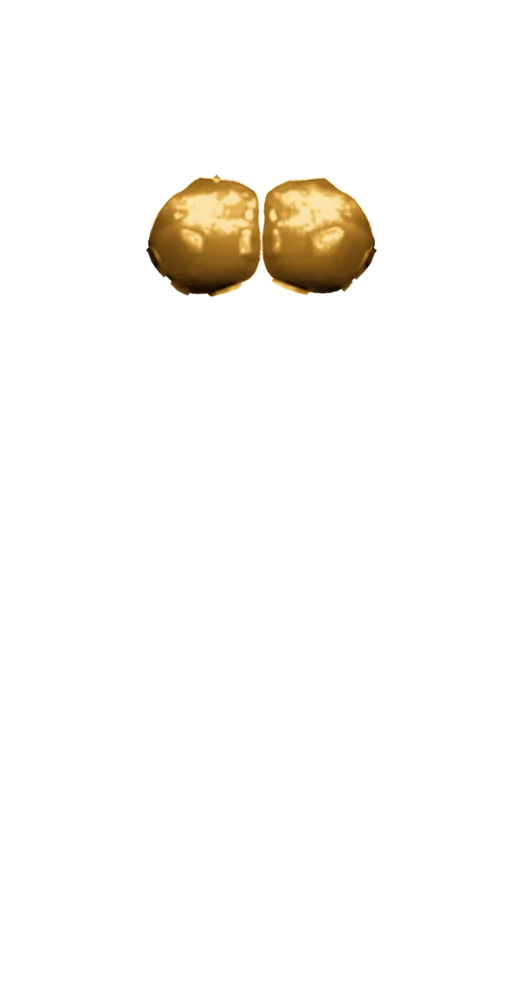
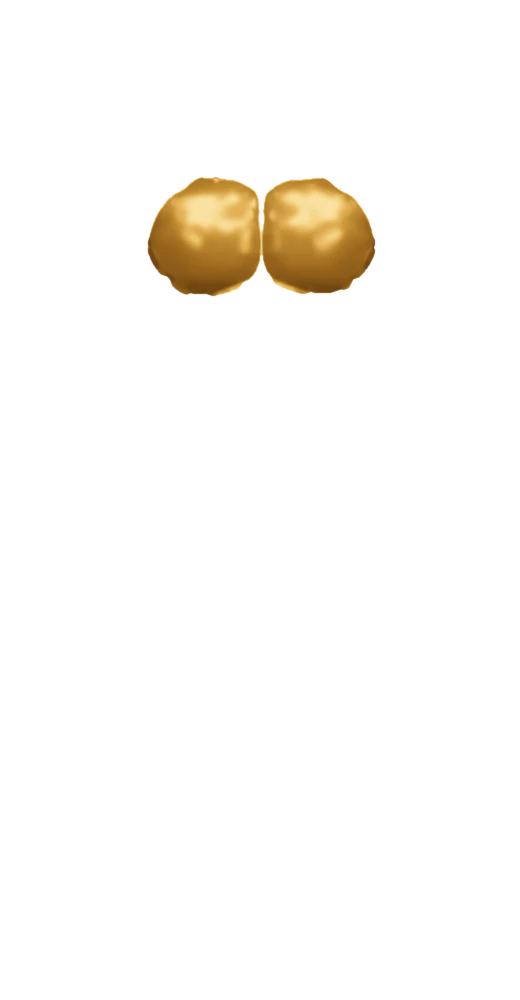
v23: Muskel-Overlays sauber neu gebaut
Streuflecken entfernt, Kanten geglättet, Gold an der Körpersilhouette
abgeschnitten, Lücke am Trizeps geschlossen, Gold aus der Figur-Helligkeit
ohne braune Ränder. Grundfigur retuschiert (Nacken-Splitter, fleckige
Glanzlichter an Brust und Gesäss, Zacken im Schritt). Build-Skript in tools/.

Claude-Session: https://claude.ai/code/session_0192CNVn12CV4HMorFgVc5mx

Changed region(s): [[0.2769, 0.186, 0.7385, 0.31]]

diff --git a/sw.js b/sw.js
@@ -1,5 +1,5 @@
 // Offline-Cache. Bei Änderungen an den Dateien die Versionsnummer erhöhen.
-const CACHE = 'gym-buddy-v22';
+const CACHE = 'gym-buddy-v23';
 const FILES = [
   './', 'index.html', 'styles.css', 'data.js', 'app.js', 'manifest.webmanifest',
   'icon.svg', 'apple-touch-icon.png', 'icon-192.png', 'icon-512.png', 'body-front.jpg', 'body-back.jpg',

diff --git a/tools/build_overlays.py b/tools/build_overlays.py
@@ -1,0 +1,174 @@
+"""Baut die goldenen Muskel-Overlays (m-<seite>-<gruppe>.webp) sauber neu.
+
+Schritt 1 (--masks): aus den bisherigen Overlays saubere Binärmasken machen
+  (Streuflecken weg, Löcher zu, Kanten glätten) -> tools/masks/*.png
+Schritt 2 (Standard): aus tools/masks + body-*.jpg die Overlays rendern.
+  Gold kommt aus der Helligkeit der weissen Figur, damit Licht und Schatten
+  exakt passen. Alpha wird an der Körpersilhouette abgeschnitten.
+Schritt 0 (--base): Figur body-*.jpg aus tools/src retuschieren
+  (Splitter am Nacken, fleckige Glanzlichter an Brust/Gesaess, Zacken im Schritt).
+Aufruf aus dem Repo-Ordner: python3 tools/build_overlays.py [--base] [--masks]
+"""
+import sys, glob, os
+import numpy as np
+import cv2
+from PIL import Image
+
+ROOT = os.path.dirname(os.path.dirname(os.path.abspath(__file__)))
+MASKS = os.path.join(ROOT, 'tools', 'masks')
+# Anzahl erwarteter Teile je Gruppe (links/rechts)
+PARTS = {'front-waden': 4}
+
+
+def lum(side):
+    return np.array(Image.open(os.path.join(ROOT, f'body-{side}.jpg')).convert('L')).astype(np.float32)
+
+
+def silhouette(side):
+    b = lum(side)
+    hard = (b > 45).astype(np.uint8)
+    hard = cv2.erode(hard, np.ones((3, 3), np.uint8))  # 1 px innen bleiben
+    soft = np.clip((b - 40) / 60, 0, 1)
+    return hard, soft
+
+
+def disk(r):
+    return cv2.getStructuringElement(cv2.MORPH_ELLIPSE, (2 * r + 1, 2 * r + 1))
+
+
+def clean_mask(m, keep):
+    n, lab, st, _ = cv2.connectedComponentsWithStats(m, 8)
+    order = sorted(range(1, n), key=lambda i: -st[i, cv2.CC_STAT_AREA])
+    out = np.zeros_like(m)
+    for i in order[:keep]:
+        if st[i, cv2.CC_STAT_AREA] > 800:
+            part = (lab == i).astype(np.uint8)
+            # Loecher fuellen
+            cnts, _ = cv2.findContours(part, cv2.RETR_EXTERNAL, cv2.CHAIN_APPROX_NONE)
+            cv2.drawContours(part, cnts, -1, 1, -1)
+            # Zacken und Nasen weg, dann Kerben zu
+            part = cv2.morphologyEx(part, cv2.MORPH_OPEN, disk(4))
+            part = cv2.morphologyEx(part, cv2.MORPH_CLOSE, disk(4))
+            out |= part
+    return out
+
+
+def make_masks():
+    os.makedirs(MASKS, exist_ok=True)
+    out = {}
+    for f in sorted(glob.glob(os.path.join(ROOT, 'm-*.webp'))):
+        key = os.path.basename(f)[2:-5]
+        side = key.split('-')[0]
+        a = np.array(Image.open(f))[:, :, 3]
+        m = (a > 127).astype(np.uint8)
+        m = clean_mask(m, PARTS.get(key, 2))
+        m &= silhouette(side)[0]
+        out.setdefault(side, {})[key] = m
+    for side, masks in out.items():
+        fill_holes_between(masks, side)
+        for key, m in masks.items():
+            Image.fromarray(m * 255).save(os.path.join(MASKS, key + '.png'))
+            print('Maske', key, int(m.sum()))
+
+
+# Goldverlauf nach Helligkeit der Figur (Schatten angehoben, damit keine braunen Raender)
+STOPS = [(0.00, (112, 70, 16)), (0.25, (150, 100, 28)), (0.50, (193, 139, 50)),
+         (0.72, (228, 180, 88)), (0.88, (247, 218, 146)), (1.00, (255, 244, 214))]
+
+
+def gold(b):
+    t = np.clip((b - 125) / 130, 0, 1) ** 1.35
+    out = np.zeros(b.shape + (3,), np.float32)
+    xs = [s[0] for s in STOPS]
+    for c in range(3):
+        out[..., c] = np.interp(t, xs, [s[1][c] for s in STOPS])
+    return out
+
+
+def smooth_region(img, mask, erode=6):
+    """Fleckige Glanzlichter in einer Muskelflaeche weich machen."""
+    inner = cv2.erode(mask, disk(erode)).astype(np.float32)
+    w = cv2.GaussianBlur(inner, (0, 0), 3)[..., None]
+    sm = cv2.medianBlur(img, 9)
+    sm = cv2.GaussianBlur(sm, (0, 0), 2.2)
+    return (img * (1 - w) + sm * w).round().astype(np.uint8)
+
+
+def fill_holes_between(masks, side):
+    """Weisse Inseln, die rundum von Gold umschlossen sind, der Nachbargruppe geben."""
+    union = np.zeros_like(next(iter(masks.values())))
+    for m in masks.values():
+        union |= m
+    sil = silhouette(side)[0]
+    holes = (sil & (1 - union)).astype(np.uint8)
+    n, lab, st, _ = cv2.connectedComponentsWithStats(holes, 4)
+    for i in range(1, n):
+        h = (lab == i).astype(np.uint8)
+        area = st[i, cv2.CC_STAT_AREA]
+        if area < 150 or area > 4000:
+            continue
+        ring = cv2.dilate(h, disk(2)) & (1 - h)
+        if (ring & (1 - union)).sum() > 0.2 * ring.sum():
+            continue  # nicht umschlossen (offene Naht)
+        if cv2.distanceTransform(h, cv2.DIST_L2, 3).max() < 3:
+            continue  # duenne Naht bleibt weiss
+        best = max(masks, key=lambda k: (ring & masks[k]).sum())
+        masks[best] |= h
+        print('Luecke', area, 'px ->', best)
+
+
+def fix_base():
+    for side in ('front', 'back'):
+        img = cv2.imread(os.path.join(ROOT, 'tools', 'src', f'body-{side}.jpg'))
+        g = cv2.cvtColor(img, cv2.COLOR_BGR2GRAY)
+        for f in glob.glob(os.path.join(MASKS, f'{side}-*.png')):
+            key = os.path.basename(f)[:-4]
+            if key in ('front-brust', 'back-gesaess'):
+                m = (cv2.imread(f, 0) > 127).astype(np.uint8)
+                img = smooth_region(img, m)
+        bad = np.zeros(g.shape, np.uint8)
+        core = np.zeros(g.shape, np.uint8)
+        if side == 'back':
+            # grauer Splitter am Nacken
+            box = np.zeros_like(bad); box[140:168, 234:258] = 1
+            bad |= ((g < 215) & (box > 0)).astype(np.uint8)
+            # Zacken am Schritt: dunkle Spitzen, die nicht zur Beinluecke gehoeren
+            dark = (g < 90).astype(np.uint8)
+            roi = np.zeros_like(bad); roi[525:580, 205:320] = 1
+            core = cv2.morphologyEx(dark, cv2.MORPH_OPEN, disk(3))
+            spikes = dark & (1 - core) & roi
+            # feine dunkle Kratzer neben der Gesaessfalte
+            med = cv2.medianBlur(g, 9).astype(int)
+            scratch = ((med - g.astype(int)) > 22) & (g > 90).astype(np.uint8) & roi
+            bad |= spikes | scratch
+        bad = cv2.dilate(bad, disk(1))
+        if bad.any():
+            img = cv2.inpaint(img, bad, 4, cv2.INPAINT_TELEA)
+            # Retuschierte Stellen weich in die Umgebung blenden
+            w = cv2.GaussianBlur(cv2.dilate(bad, disk(4)).astype(np.float32), (0, 0), 2.5)
+            w = (w * (1 - cv2.dilate(core, disk(2)))).astype(np.float32)[..., None]
+            img = (img * (1 - w) + cv2.GaussianBlur(img, (0, 0), 2.5) * w).round().astype(np.uint8)
+        cv2.imwrite(os.path.join(ROOT, f'body-{side}.jpg'), img, [cv2.IMWRITE_JPEG_QUALITY, 90])
+        print('Figur', side, 'retuschiert,', int(bad.sum()), 'px')
+
+
+def render():
+    for f in sorted(glob.glob(os.path.join(MASKS, '*.png'))):
+        key = os.path.basename(f)[:-4]
+        side = key.split('-')[0]
+        m = np.array(Image.open(f).convert('L')).astype(np.float32) / 255
+        # weiche Kante: 1.5 px Uebergang
+        a = cv2.GaussianBlur(m, (0, 0), 0.9)
+        a = np.clip((a - 0.5) * 1.6 + 0.5, 0, 1) * silhouette(side)[1]
+        rgb = gold(cv2.GaussianBlur(lum(side), (0, 0), 0.6))
+        out = np.dstack([rgb, a * 255]).round().astype(np.uint8)
+        Image.fromarray(out, 'RGBA').save(os.path.join(ROOT, f'm-{key}.webp'), quality=90, method=6)
+        print('Overlay', key)
+
+
+if __name__ == '__main__':
+    if '--masks' in sys.argv:
+        make_masks()
+    if '--base' in sys.argv:
+        fix_base()
+    render()
